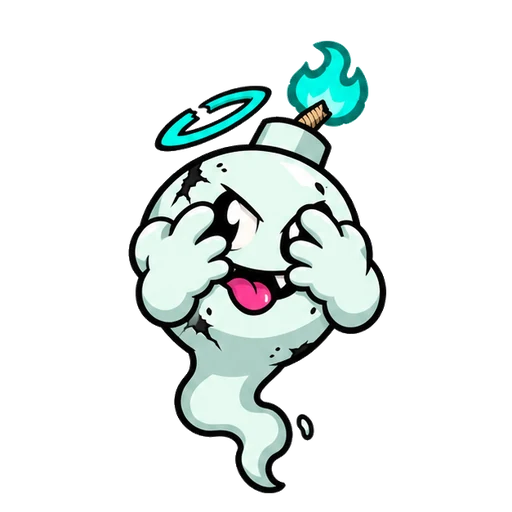
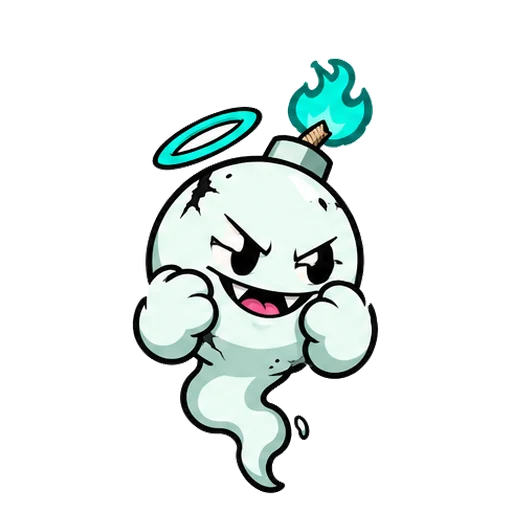
feat: BOO idle repainted at 6 frames

Changed region(s): [[0.25, 0.0625, 0.7812, 0.9688]]

diff --git a/src/cast/cast.js b/src/cast/cast.js
@@ -377,7 +377,8 @@ export const CAST_FRAMES = {
   // 6 frames: reading → looks up, a first star → fingers wiggle stars → the book FLARES → snaps shut → 'shh'
   hex: { n: 6, seq: [[1, 360], [2, 520], [3, 820], [4, 360], [5, 1100]], rest: 1900 },
   // BOO: sneaky grin → peeks through its fingers (twice) → arms wide, the big spook → doubled over laughing
-  boo: { n: 4, seq: [[1, 420], [0, 160], [1, 420], [2, 850], [3, 1050]], rest: 1800 },
+  // 6 frames: sneaky grin → hands rise → peeks through its fingers → hands drop → the big SPOOK → doubled over laughing
+  boo: { n: 6, seq: [[1, 300], [2, 620], [3, 220], [4, 800], [5, 1000]], rest: 1800 },
   // MECHA: ready → red scan line, antenna pinging → ROCKET PUNCH → steam vents, thumbs up ^ ^
   mecha: { n: 4, seq: [[1, 750], [0, 180], [2, 720], [3, 1150]], rest: 1800 },
   // DUD: asleep → snot bubble swells → POP, jolts awake → giant yawn
